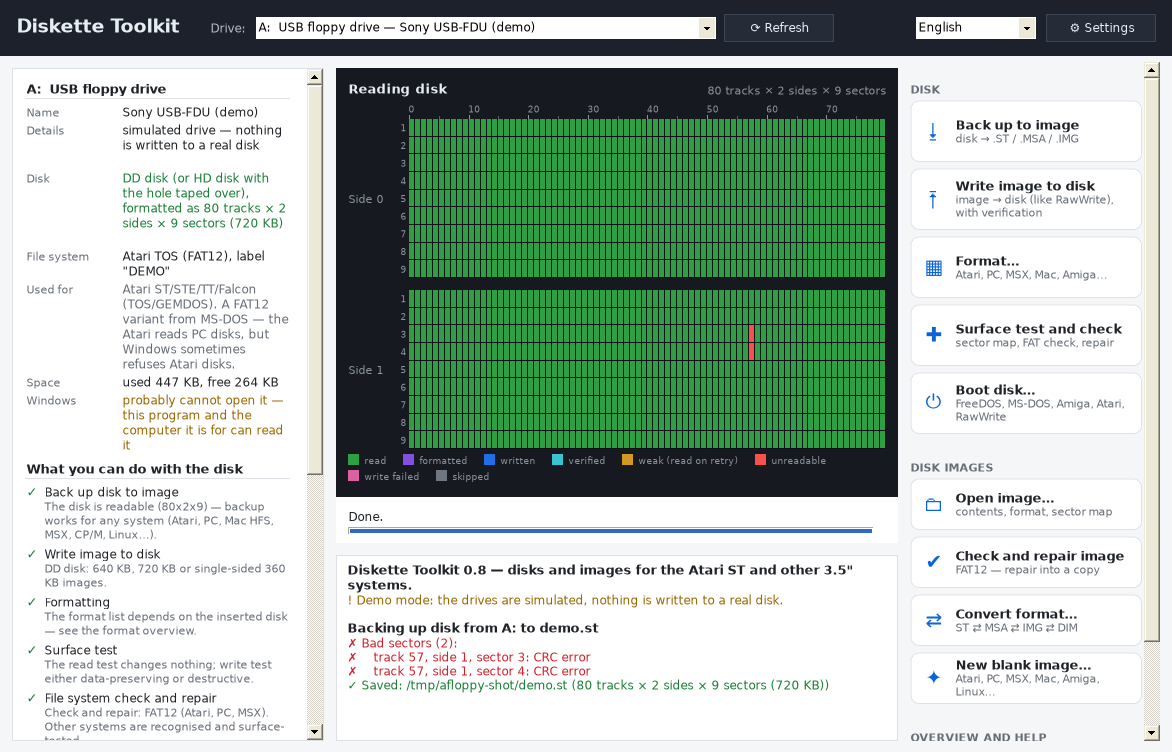
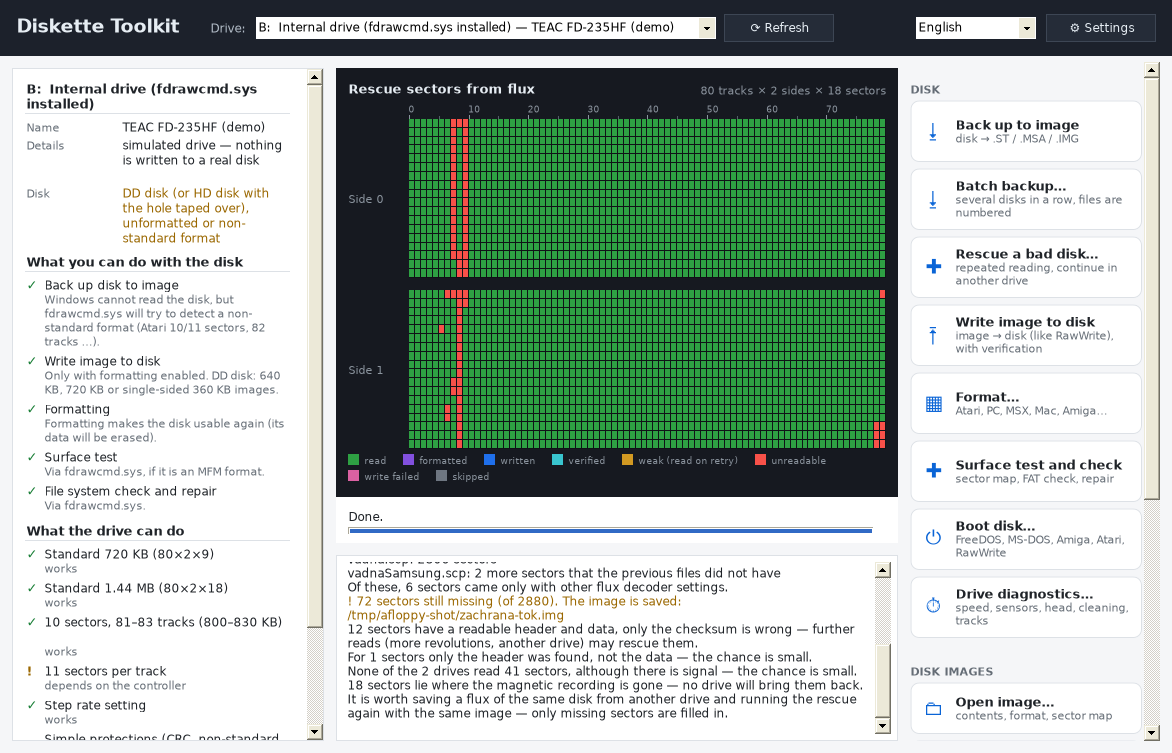
README: what is new in 0.9, new screenshots (#19)
## What changed
- README: new "What's new in 0.9" section (drive diagnostics, rescue
with advice, rescue from flux, safer Greaseweazle writes, FAT check
leaves non-FAT disks alone), tested-hardware status, note about AMD AM5
USB controllers and Greaseweazle writes.
- New screenshots from 0.9: `docs/screenshot.png` (flux rescue of Wary's
real damaged disk, two drives) and `docs/screenshot-diagnostics.png`
(live drive-speed gauge, demo mode).
- Drive table mentions diagnostics.
- English translation fix: "For 1 sectors only the header…" → "Sectors
with only a header found, no data: 1 …" (takes effect in the next
build).

## Verified
- Screenshots taken from the current build (English, demo mode / real
.scp files); 86 tests pass; 0 missing translations.

## Wary should check
- The README page on GitHub after merging (texts and images).

---
_Generated by [Claude Code](https://claude.ai/code)_

diff --git a/README.md b/README.md
@@ -18,13 +18,35 @@ Try it without hardware: `DisketteToolkit.exe --demo` (simulated drives).
 
 See also: [Privacy](#privacy) · [Code signing policy](#code-signing-policy)
 
+## What's new in 0.9
+
+- **Drive diagnostics** (Greaseweazle, internal drive + fdrawcmd.sys): drive speed with wobble and a live gauge
+  for turning the speed trimmer, warm-up test, sensor check, head to track 0 / 79 / sweep, step accuracy test,
+  head cleaning, repeated track read (dirty head or damaged disk?), USB bandwidth test, flux histogram per track
+- **Rescue a bad disk**: many retries per unreadable sector, continue in another drive (only missing sectors are
+  read), and at the end advice whether another drive can still help or the spot is lost
+- **Rescue sectors from flux**: open a Greaseweazle `.scp`, decode it with the built-in MFM decoder, combine captures
+  of the same disk from several drives into one image
+- Error reason for every failed sector in the map, read history (disk or drive?), disk grade A/B/C after a write test
+- Safer Greaseweazle writes: USB bandwidth is checked first, a write that would stop mid-track is not started
+- The FAT check leaves boot loaders and other non-FAT disks alone
+
+![Drive diagnostics — live drive speed](docs/screenshot-diagnostics.png)
+
+Tested on real hardware with a Greaseweazle V4.1 (NEC, Samsung and ALPS drives; HD and DD disks) and a
+Sony USB-FDU. The diagnostics on an internal drive with fdrawcmd.sys are **not verified on real hardware yet**.
+
+> On some desktop PCs with an AMD AM5 board (B650, X670, X870) the USB controller feeds slow USB devices too
+> slowly for Greaseweazle **writes** (reading works). Use another computer or an add-in PCIe USB card;
+> *Drive diagnostics → USB bandwidth test* shows whether your port is fast enough.
+
 ## Supported drives
 
 | Drive | What it can do |
 |---|---|
 | USB floppy drive | standard PC formats only (640 KB, 720 KB, 1.44 MB) |
-| Internal drive + [fdrawcmd.sys](https://simonowen.com/fdrawcmd/) | also Atari 800–900 KB (10/11 sectors, up to 84 tracks), DMF, 128–1024 byte sectors, step rate |
-| [Greaseweazle](https://github.com/keirf/greaseweazle) | everything incl. Amiga, Mac GCR, flux backups (.scp/.hfe) and writing IPF/SCP/HFE |
+| Internal drive + [fdrawcmd.sys](https://simonowen.com/fdrawcmd/) | also Atari 800–900 KB (10/11 sectors, up to 84 tracks), DMF, 128–1024 byte sectors, step rate; drive diagnostics |
+| [Greaseweazle](https://github.com/keirf/greaseweazle) | everything incl. Amiga, Mac GCR, flux backups (.scp/.hfe) and writing IPF/SCP/HFE; drive diagnostics |
 
 ![Drive capabilities](docs/drives-en.png)
 
@@ -37,7 +59,7 @@ The program downloads gw.exe and fdrawcmd.sys itself when you need them.
 - Batch backup: a box of disks one after another into numbered images (disk-001.st, disk-002.st…)
 - Drag an image file onto the window to open it
 - Drive diagnostics (internal drive + fdrawcmd.sys, Greaseweazle): speed with wobble and a live gauge for adjusting, sensor check, head moves and cleaning, repeated track read (dirty head vs. damaged disk), track layout listing (fdrawcmd.sys), warm-up and step accuracy tests, flux histogram and USB bandwidth test (Greaseweazle)
-- Rescue a bad disk: many retries per unreadable sector, continue in another drive (only the missing sectors are read), experimental bit voting from bad reads (fdrawcmd.sys); rescue sectors from saved Greaseweazle flux (.scp) with an own MFM decoder, combining captures from several drives
+- Rescue a bad disk: many retries per unreadable sector, continue in another drive (only the missing sectors are read), advice whether another drive can still help, experimental bit voting from bad reads (fdrawcmd.sys); rescue sectors from saved Greaseweazle flux (.scp) with an own MFM decoder, combining captures from several drives
 - Error reason for every failed sector in the map, read history that tells a faulty drive from a faulty disk, disk grade (A/B/C) after a write test
 - Surface test (read-only, write test with restore, destructive) with a FastCopy-style map
 - Experimental repair format (internal drive + fdrawcmd.sys): a defect on a track is covered by an extra sector instead of being marked bad in the FAT
